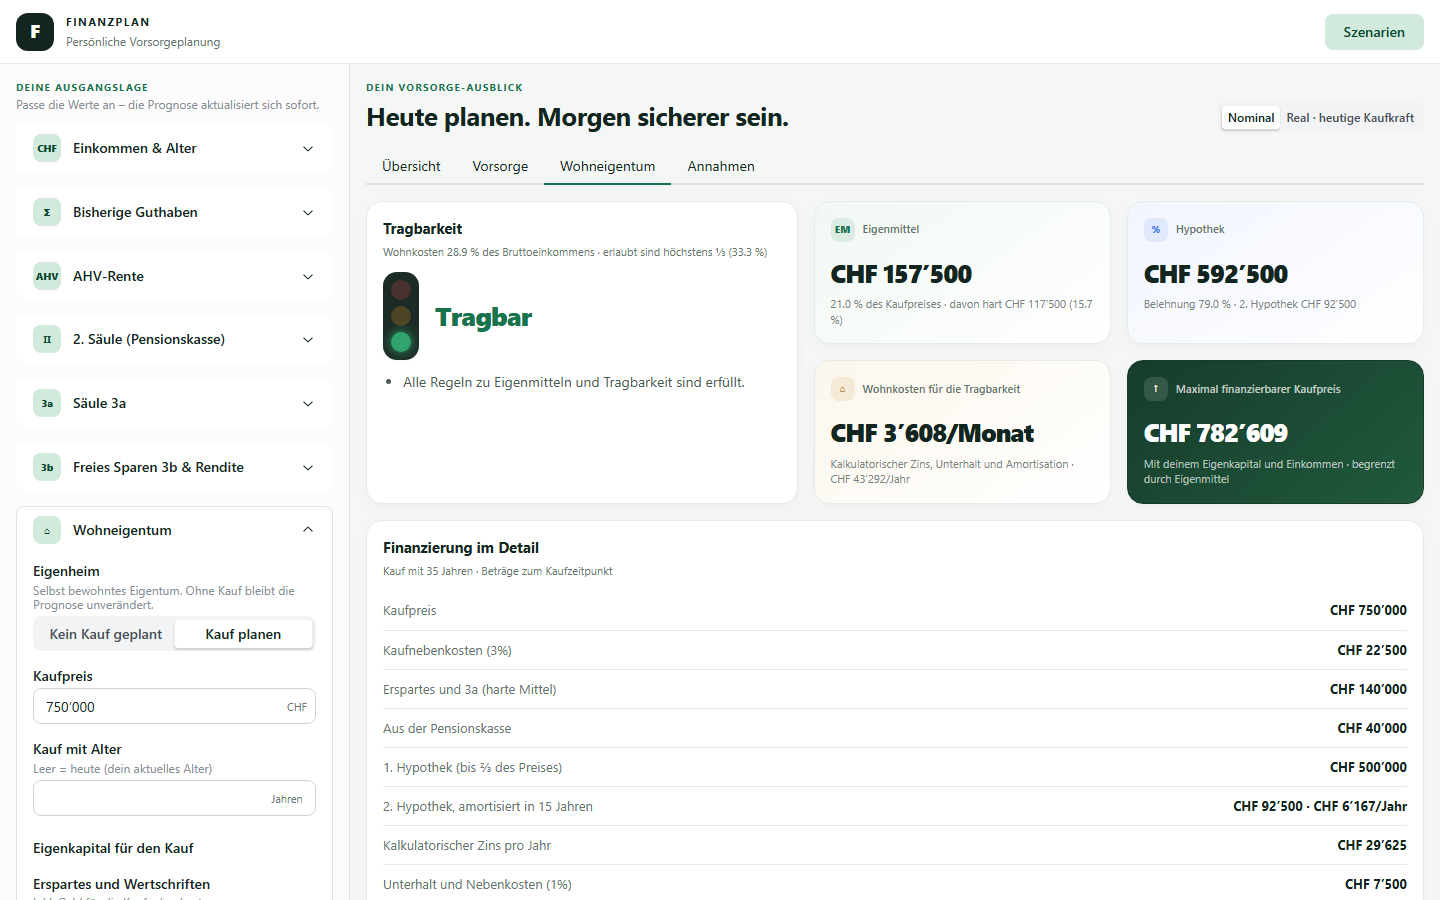
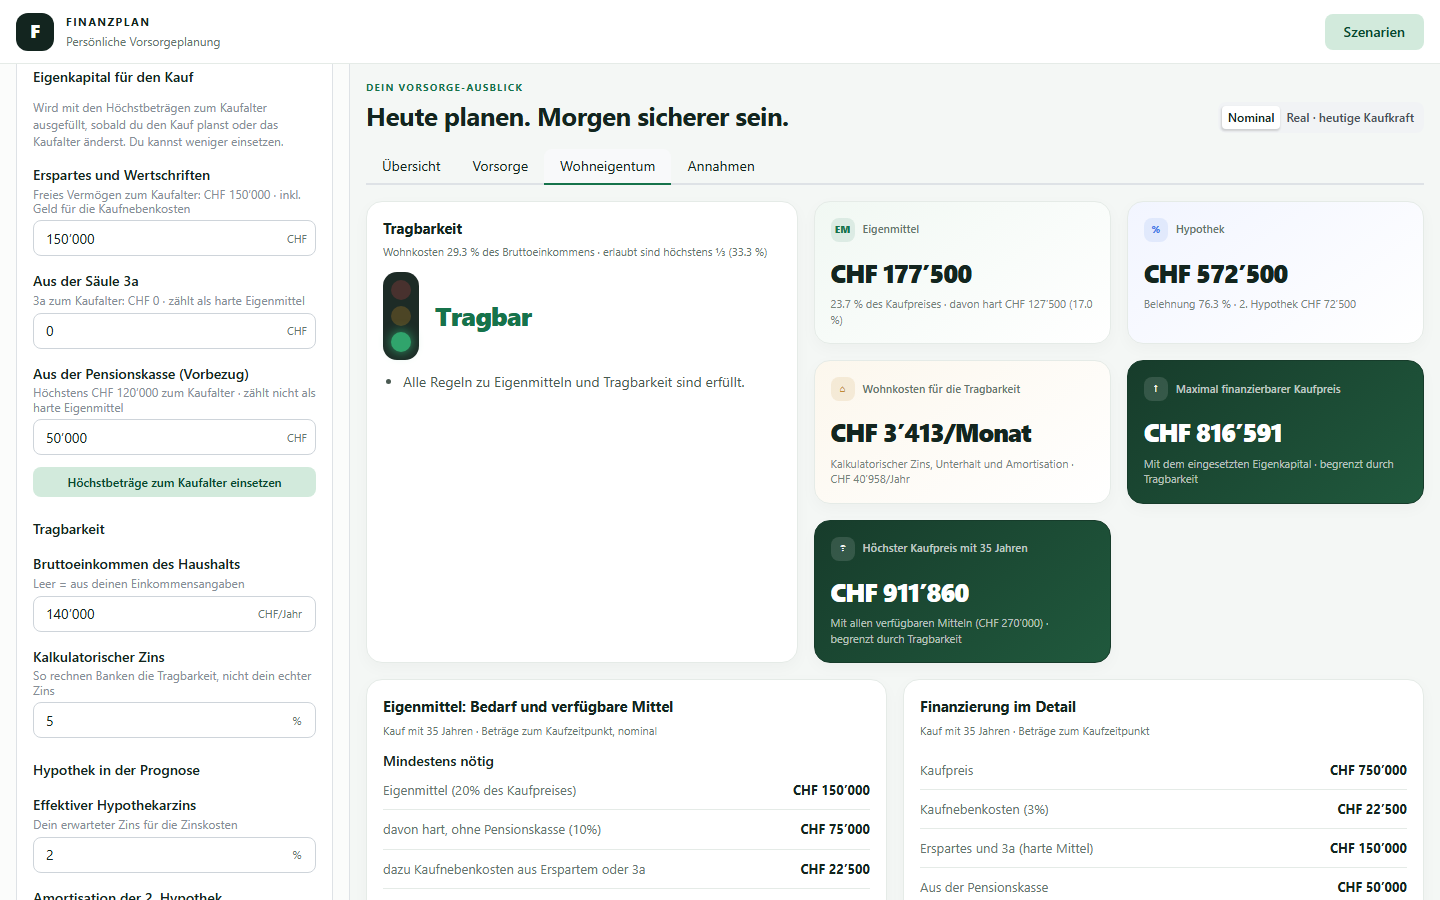
Release 1.1.1
Update the README for the 2027 values, the salary growth and the
prefilled purchase money, take a new screenshot of the home tab and fix
the code example (results are dataclasses, not dicts).

diff --git a/README.md b/README.md
@@ -14,7 +14,7 @@ their own browser, and **no personal financial data is ever stored on the server
 
 ![Dashboard: inputs on the left, projected retirement capital, AHV estimate and growth chart in tabs on the right](docs/images/dashboard.png)
 
-![Home ownership tab: traffic light for affordability, equity, mortgage, monthly housing costs and the maximum affordable price](docs/images/wohneigentum.png)
+![Home ownership tab: purchase money prefilled with the highest amounts at the purchase age, traffic light for affordability, equity, mortgage, monthly housing costs, the maximum price with the money used and with all money available, and the equity needed versus available](docs/images/wohneigentum.png)
 
 ### Highlights
 
@@ -25,19 +25,21 @@ their own browser, and **no personal financial data is ever stored on the server
 - **Secure deployment:** Dockerized (multi-stage build, non-root user, read-only filesystem) and
   served by gunicorn on Render's free tier. The shared-password login (HTTP Basic Auth,
   constant-time comparison) **fails closed**: the container refuses to start without a password.
-- **CI/CD:** GitHub Actions runs linting, a format check and 440+ tests (100 % line and branch
+- **CI/CD:** GitHub Actions runs linting, a format check and 510+ tests (100 % line and branch
   coverage) on Linux and Windows, Playwright
   browser tests and a Docker build with smoke tests on every pull request. Render deploys only
   commits whose checks passed.
 - **Domain logic:** Swiss salary deductions with 2026 rates (AHV/IV/EO, ALV with its insured-salary
-  cap), BVG estimate, AHV pension scale, BVG and 3a limits valid from 2027, compound-interest
-  projections in nominal or real terms.
+  cap), BVG estimate, AHV pension scale, BVG and 3a limits valid from 2027, 2nd-pillar
+  contributions that grow with the salary year by year, compound-interest projections in nominal
+  or real terms.
 - **Home ownership (v1.1):** affordability and equity check following the Swiss banking rules
   (20 % equity, 10 % of it not from the pension fund, housing costs up to a third of the gross
   income) with a traffic light and the maximum affordable price; early withdrawals from the
   2nd pillar and 3a (WEF) and their effect on the retirement capital; direct or indirect
-  amortisation, net wealth over time and affordability in retirement. Every rule is a constant
-  with its source.
+  amortisation, net wealth over time and affordability in retirement. The purchase money is
+  prefilled with the most the projection allows at the purchase age (v1.1.1), next to the
+  highest price that all available money would allow. Every rule is a constant with its source.
 - **Clean architecture:** `core/` (pure domain logic) → `storage/` → `dashboard/` (UI);
   dependencies only point inwards.
 
@@ -63,13 +65,14 @@ Ein Python-Paket für private Finanzplanung nach dem Schweizer Rentensystem (1.,
 - **Nettolohn Input**: Einfache Eingabe des monatlichen Nettolohns
 - **2. Säule Berechnung**: Automatische Berechnung des Berufsvorsorgeanspruchs (BVG-konform)
 - **3a Szenarien**: Mehrere Sparlösungen für die 3. Säule
-- **Sparquote & Beträge**: Konfigurierbare Sparquoten oder feste monatliche Sparraten
+- **Feste Beträge**: Feste monatliche Beiträge für 3a und 3b; ein Button setzt den höchsten 3a-Betrag im Modell-Limit ein
+- **Lohnzunahme**: Eine jährliche Lohnzunahme lässt die Beiträge an die 2. Säule Jahr für Jahr steigen
 - **Dash Dashboard**: Interaktive Visualisierung und Vermögensanalyse
 - **Live-Planung**: Monatliches oder jährliches Brutto-/Nettoeinkommen, flexible 3a/3b-Beiträge und Renditeannahmen mit interaktiven Prognosegrafiken; Brutto wird anhand des gewählten Kantons vereinfacht netto geschätzt
 - **2. Säule**: Vereinfachtes BVG-Schätzmodell (keine offizielle Mindestberechnung) oder eigene monatliche Arbeitnehmer-/Arbeitgeberbeiträge und PK-Verzinsung
 - **Startguthaben**: Bereits vorhandene Guthaben in der 2. Säule, 3a und 3b fliessen in die Projektion ein
 - **Transparente Modellannahmen**: Renditen, nominale Werte ohne Inflationsbereinigung, Vereinfachungen der BVG-Schätzung und nicht berücksichtigte Faktoren werden bei der Prognose ausgewiesen
-- **Wohneigentum**: Tragbarkeit und Eigenmittel mit Ampel, maximaler Kaufpreis, Vorbezug aus 2. Säule und 3a (WEF), direkte oder indirekte Amortisation, Nettovermögen und Tragbarkeit im Alter
+- **Wohneigentum**: Tragbarkeit und Eigenmittel mit Ampel, maximaler Kaufpreis, Vorbezug aus 2. Säule und 3a (WEF), direkte oder indirekte Amortisation, Nettovermögen und Tragbarkeit im Alter. Die Kaufmittel werden mit den Höchstbeträgen zum Kaufalter vorbelegt; daneben stehen der Eigenmittelbedarf und der höchste Kaufpreis mit allen verfügbaren Mitteln
 - **Nominale und reale Prognose**: Umschaltbare Anzeige in zukünftigen CHF oder kaufkraftbereinigten heutigen CHF unter Verwendung der konfigurierten jährlichen Inflation
 - **AHV-Rente**: Unverbindliche Schätzung anhand des durchschnittlichen Jahreseinkommens und der Beitragsjahre als separates Ruhestandseinkommen; 13 Jahreszahlungen sind berücksichtigt, die AHV wird nicht zum Vorsorgekapital addiert
 - **Szenarien im eigenen Browser**: Dashboard-Eingaben lassen sich benannt speichern, laden und löschen; ein erneut gespeicherter Name aktualisiert das bestehende Szenario. Die Daten bleiben im Browser des Nutzers, der Server speichert nichts
@@ -225,15 +228,12 @@ calc = FinanceCalculator(
 
 # Berechne 2. Säule
 pillar2 = calc.calculate_pillar2()
-print(f"2. Säule Anspruch: {pillar2['annual_contribution']:.2f} CHF")
+print(f"2. Säule Beitrag pro Jahr: {pillar2.annual_contribution_total:.2f} CHF")
+print(f"2. Säule bei Pensionierung: {pillar2.estimated_capital_at_retirement:.2f} CHF")
 
-# Berechne 3a Szenario mit 10% Sparquote
-pillar3a_scenario1 = calc.calculate_pillar3a(savings_rate=0.10)
-print(f"3a Szenario 1 (10% Sparquote): {pillar3a_scenario1['total_at_retirement']:.2f} CHF")
-
-# Berechne 3a mit festem monatlichem Betrag
-pillar3a_scenario2 = calc.calculate_pillar3a(monthly_amount=1000)
-print(f"3a Szenario 2 (1000 CHF/Monat): {pillar3a_scenario2['total_at_retirement']:.2f} CHF")
+# Berechne 3a mit festem monatlichem Betrag (begrenzt auf das Modell-Limit)
+pillar3a = calc.calculate_pillar3a(monthly_amount=500)
+print(f"3a (500 CHF/Monat): {pillar3a.total_at_retirement:.2f} CHF")
 
 # Gesamtanalyse
 analysis = calc.complete_analysis()
